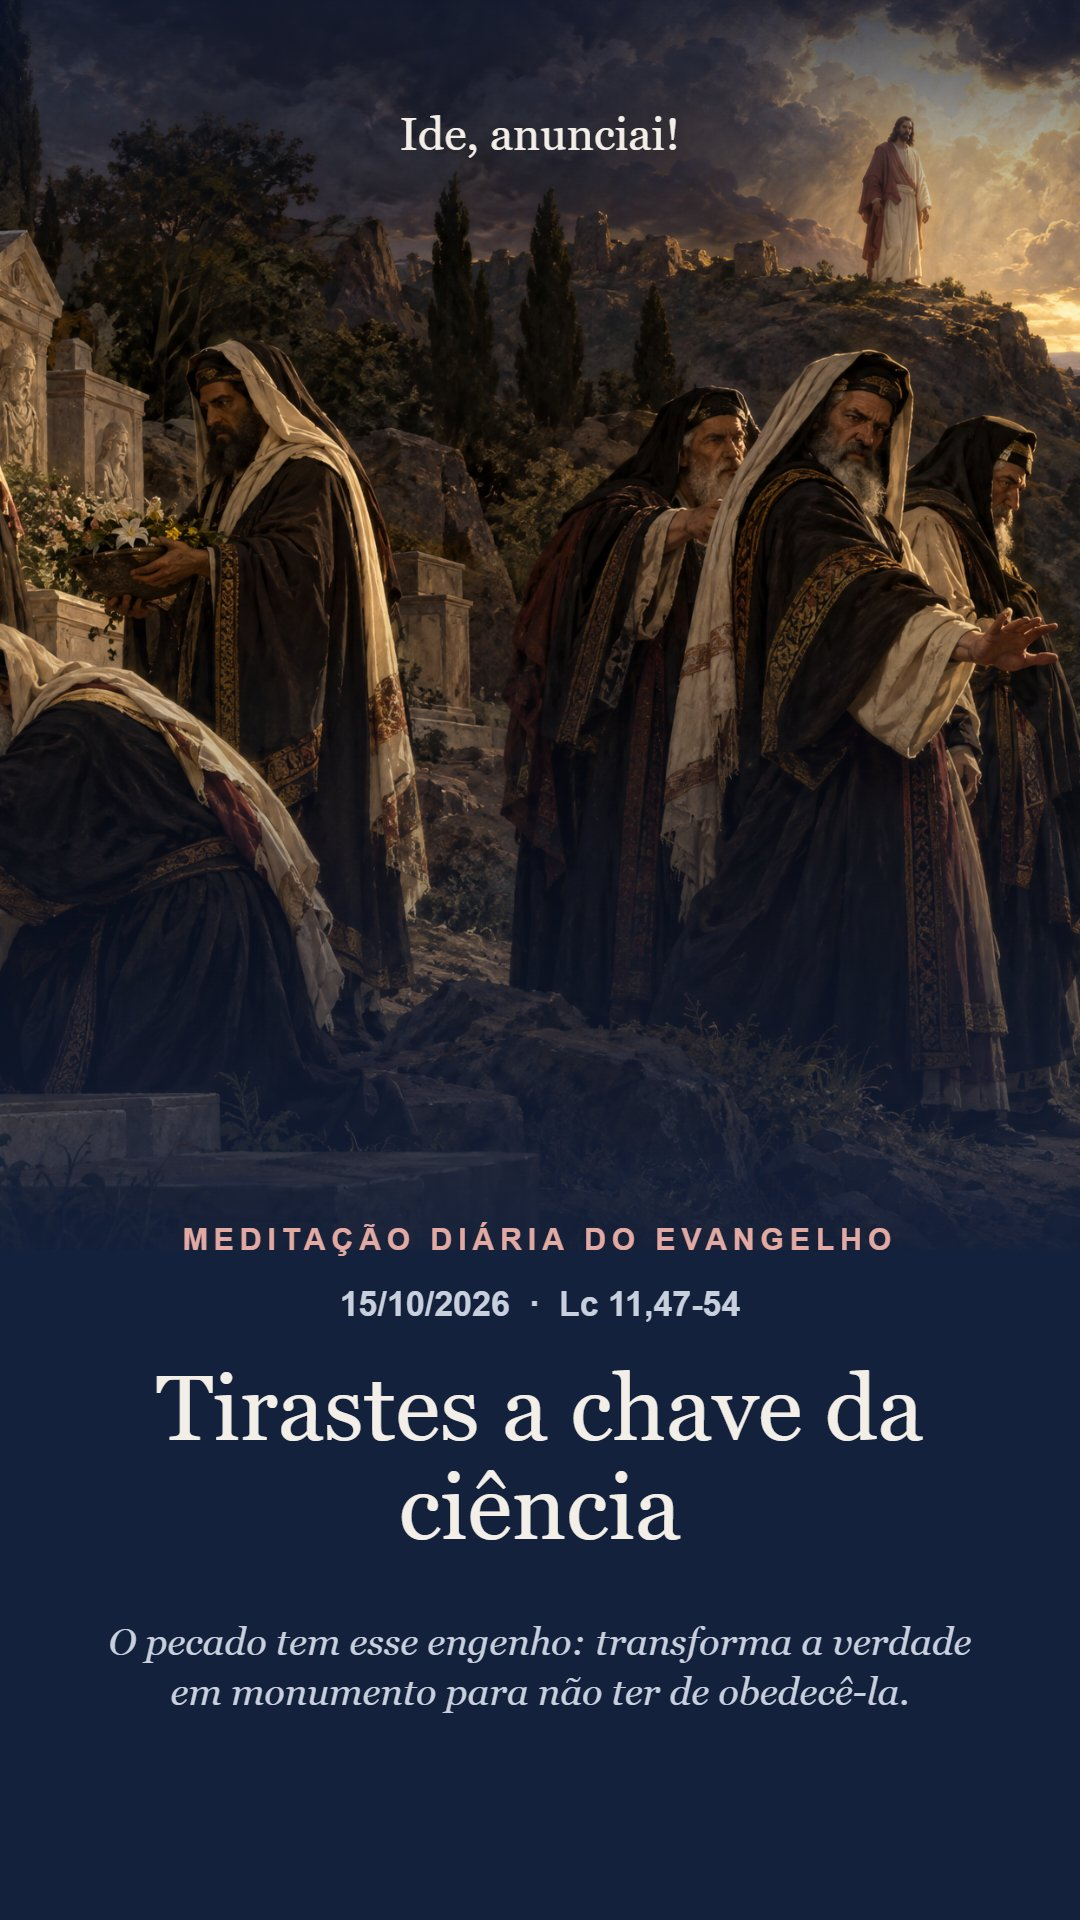
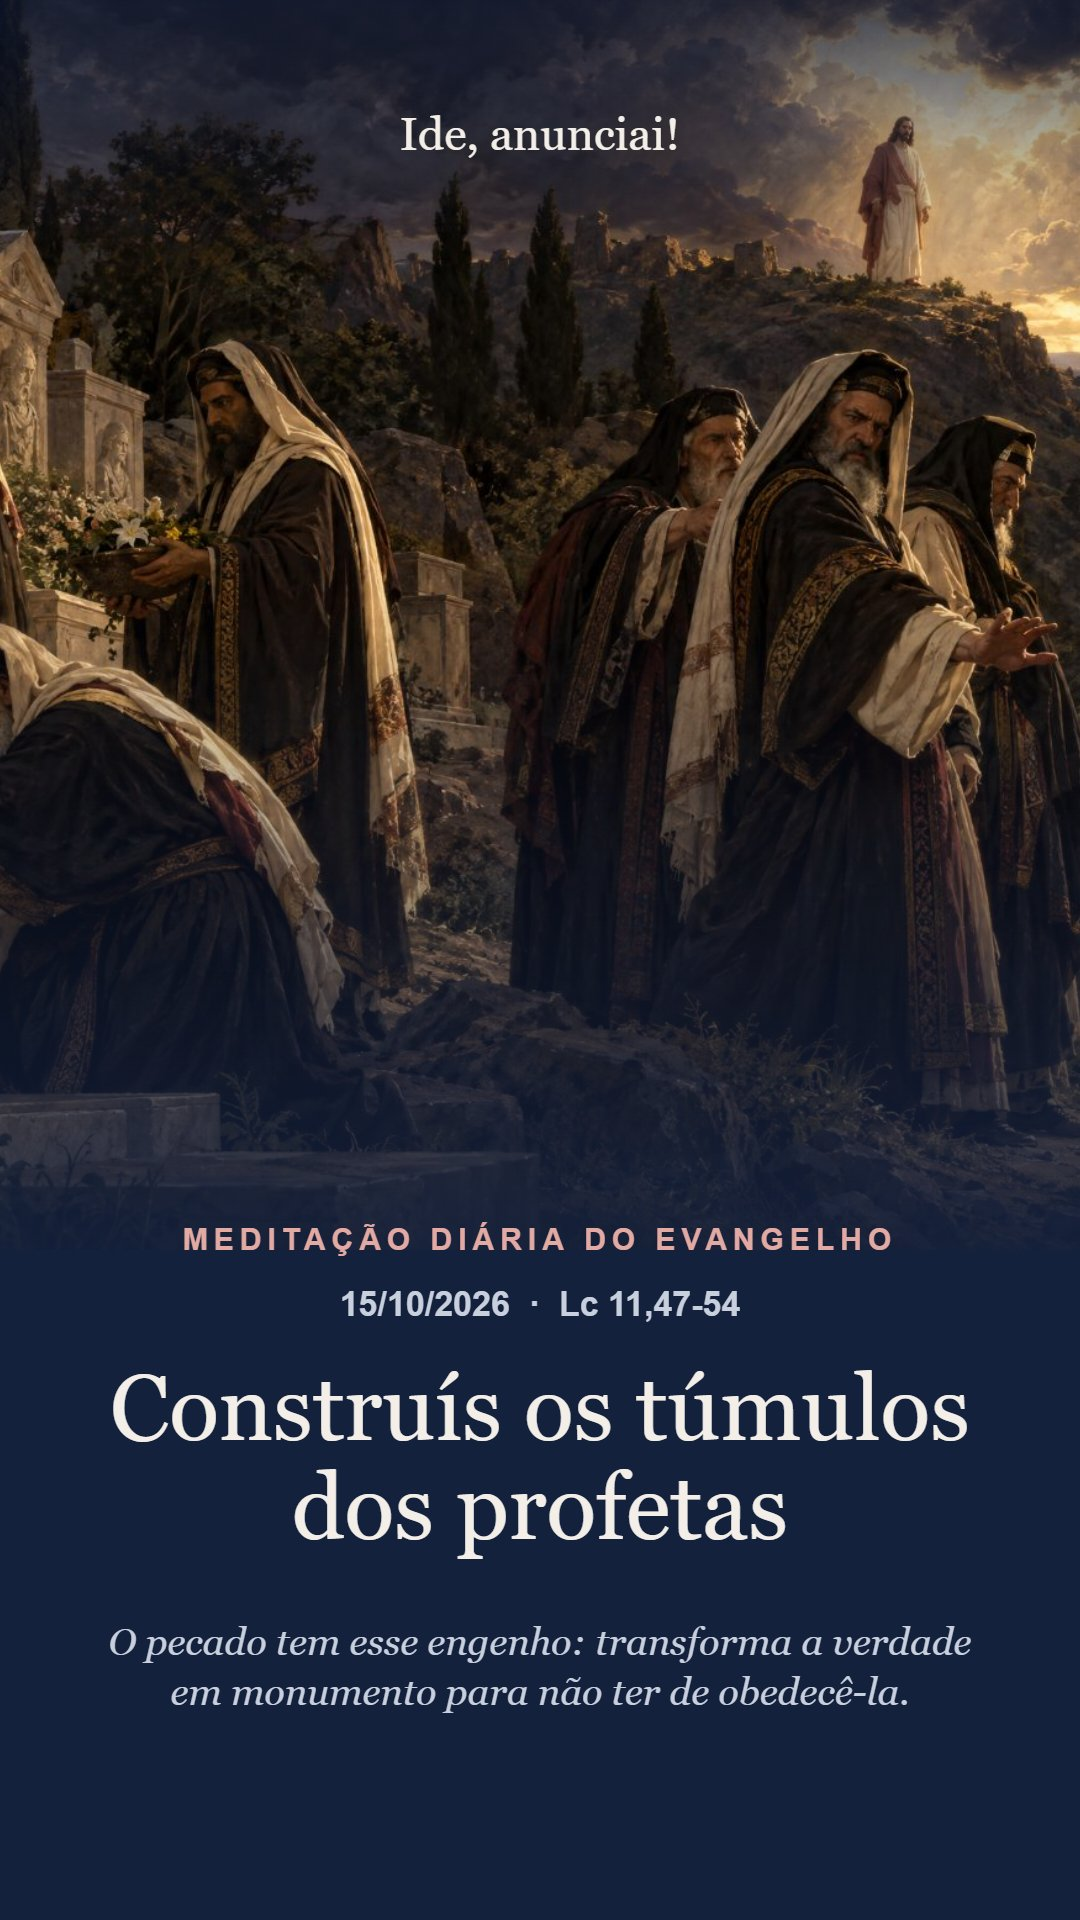
Add files via upload

Changed region(s): [[0.0917, 0.7188, 0.9167, 0.8125]]

diff --git a/2026-10-15.html b/2026-10-15.html
@@ -1,11 +1,11 @@
 <!DOCTYPE html>
 <html>
 <head>
-<title>Tirastes a chave da ciência — Ide, anunciai!</title>
+<title>Construís os túmulos dos profetas — Ide, anunciai!</title>
 <meta name="description" content="O pecado tem esse engenho: transforma a verdade em monumento para não ter de obedecê-la.">
 <meta property="og:type" content="article">
 <meta property="og:site_name" content="Ide, anunciai!">
-<meta property="og:title" content="Meditação Diária do Evangelho · 15/10/2026 · Tirastes a chave da ciência">
+<meta property="og:title" content="Meditação Diária do Evangelho · 15/10/2026 · Construís os túmulos dos profetas">
 <meta property="og:description" content="O pecado tem esse engenho: transforma a verdade em monumento para não ter de obedecê-la.">
 <meta property="og:image" content="https://ideanunciai.com.br/assets/2026-10-15-thumb.jpg">
 <meta property="og:image:width" content="1200">

diff --git a/reflexoes.js b/reflexoes.js
@@ -1052,7 +1052,7 @@ window.REFLEXOES = [
     "data": "2026-10-15",
     "tempo": "28ª Semana do Tempo Comum — Ano II",
     "memoria": "Santa Teresa de Jesus, virgem e doutora da Igreja — Memória",
-    "titulo": "Tirastes a chave da ciência",
+    "titulo": "Construís os túmulos dos profetas",
     "frase": "O pecado tem esse engenho: transforma a verdade em monumento para não ter de obedecê-la.",
     "minutos": 6,
     "leituras": [
